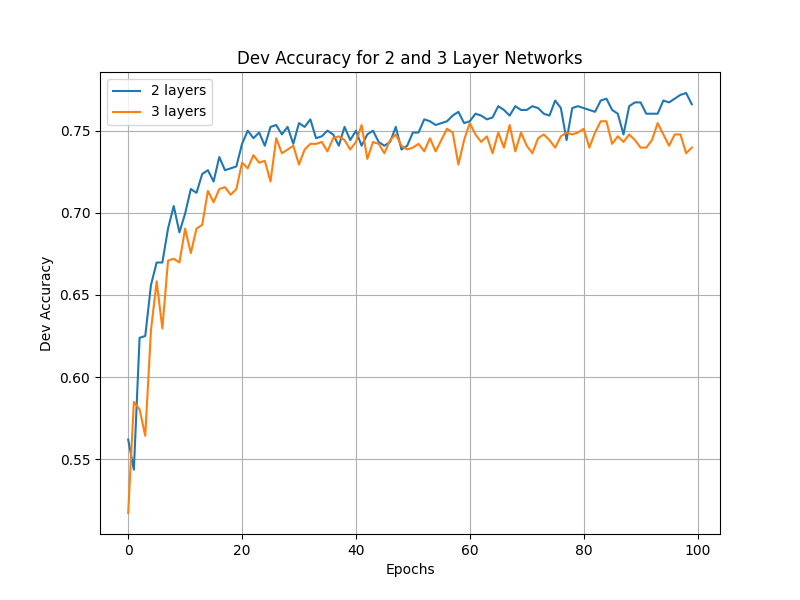
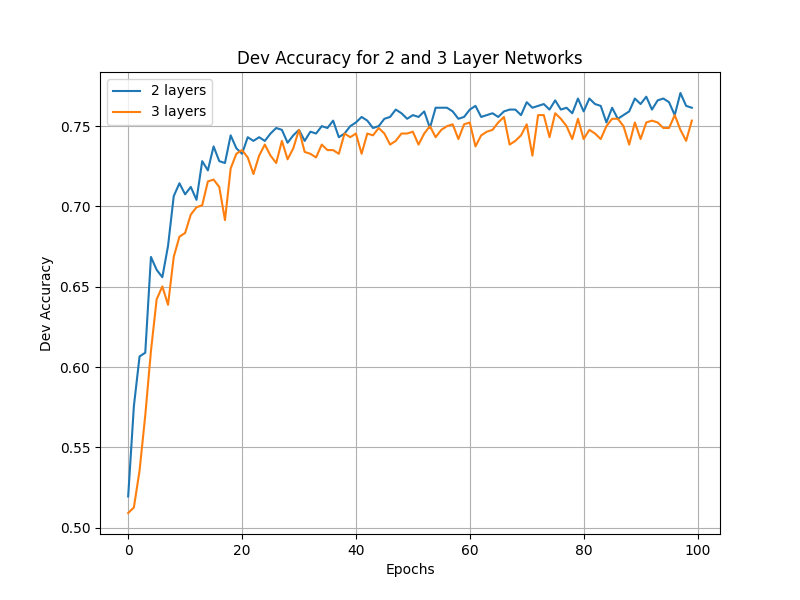
wrote README file for run instructions

diff --git a/main.py b/main.py
@@ -105,9 +105,18 @@ def main():
     # Load dataset
     start_time = time.time()
 
+    #setup variables for input and hidden size
+    input_size_var = 0
+    hidden_size_var = 0
     #check whether a dataset is provided as an argument
     if args.datapath is None:
         args.datapath = "glove.6B.300d-relativized.txt"
+    if args.datapath == "glove.6B.300d-relativized.txt":
+        input_size_var = 300
+        hidden_size_var = 200
+    elif args.datapath == "glove.6B.50d-relativized.txt":
+        input_size_var = 50
+        hidden_size_var = 20
 
     if args.model == "BOW":
         train_data = SentimentDatasetBOW("data/train.txt")
@@ -188,12 +197,12 @@ def main():
 
     elif args.model == "DAN":
         print('\n2 layers:')
-        nn2_train_accuracy, nn2_test_accuracy = experiment(NN2DAN(input_size=300, hidden_size=200), train_loader,
+        nn2_train_accuracy, nn2_test_accuracy = experiment(NN2DAN(input_size=input_size_var, hidden_size=hidden_size_var), train_loader,
                                                            test_loader)
 
         # Train and evaluate NN3
         print('\n3 layers:')
-        nn3_train_accuracy, nn3_test_accuracy = experiment(NN3DAN(input_size=300, hidden_size=200), train_loader,
+        nn3_train_accuracy, nn3_test_accuracy = experiment(NN3DAN(input_size=input_size_var, hidden_size=hidden_size_var), train_loader,
                                                            test_loader)
 
         # Plot the training accuracy
@@ -230,12 +239,12 @@ def main():
 
     elif args.model == "RandomDAN":
         print('\n2 layers:')
-        nn2_train_accuracy, nn2_test_accuracy = experiment(NN2DAN_RANDOM(embed_size=300, hidden_size=200, embed_path="data/" + args.datapath), train_loader,
+        nn2_train_accuracy, nn2_test_accuracy = experiment(NN2DAN_RANDOM(embed_size=input_size_var, hidden_size=hidden_size_var, embed_path="data/" + args.datapath), train_loader,
                                                            test_loader)
 
         # Train and evaluate NN3
         print('\n3 layers:')
-        nn3_train_accuracy, nn3_test_accuracy = experiment(NN3DAN_RANDOM(embed_size=300, hidden_size=200, embed_path="data/" + args.datapath), train_loader,
+        nn3_train_accuracy, nn3_test_accuracy = experiment(NN3DAN_RANDOM(embed_size=input_size_var, hidden_size=hidden_size_var, embed_path="data/" + args.datapath), train_loader,
                                                            test_loader)
 
         # Plot the training accuracy
@@ -271,8 +280,8 @@ def main():
     elif args.model == "BPEDAN":
         print('\n2 layers:')
         nn2_train_accuracy, nn2_test_accuracy = experiment(
-            NN2DAN_BPE(embed_size=300,
-                       hidden_size=200,
+            NN2DAN_BPE(embed_size=input_size_var,
+                       hidden_size=hidden_size_var,
                        vocab_size=train_data.vocab_size),
             train_loader,
             test_loader)
@@ -280,8 +289,8 @@ def main():
         # Train and evaluate NN3
         print('\n3 layers:')
         nn3_train_accuracy, nn3_test_accuracy = experiment(
-            NN3DAN_BPE(embed_size=300,
-                       hidden_size=200,
+            NN3DAN_BPE(embed_size=input_size_var,
+                       hidden_size=hidden_size_var,
                        vocab_size=train_data.vocab_size),
             train_loader,
             test_loader)
